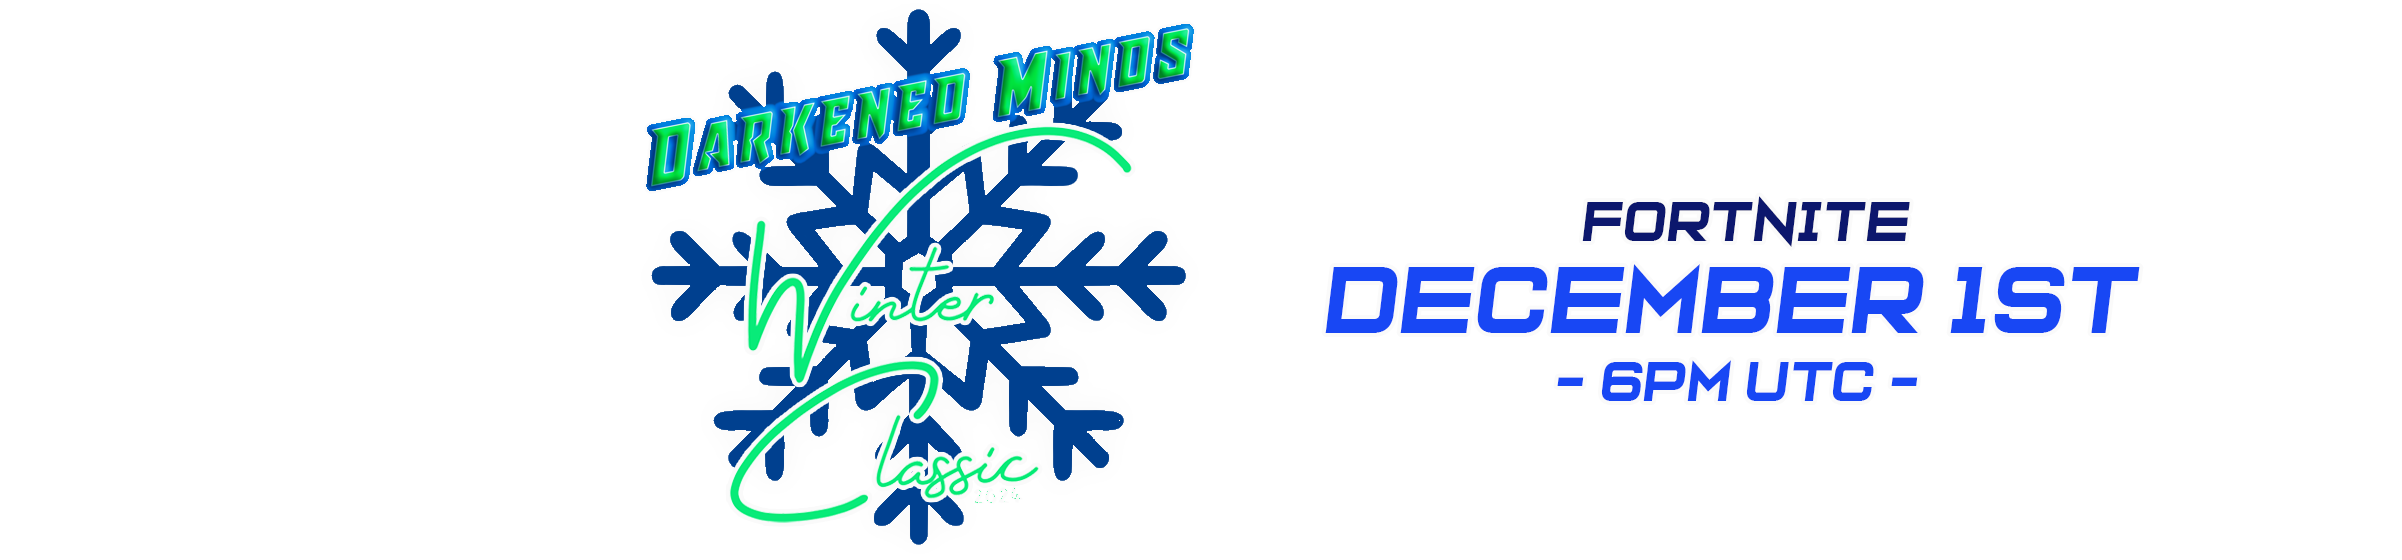
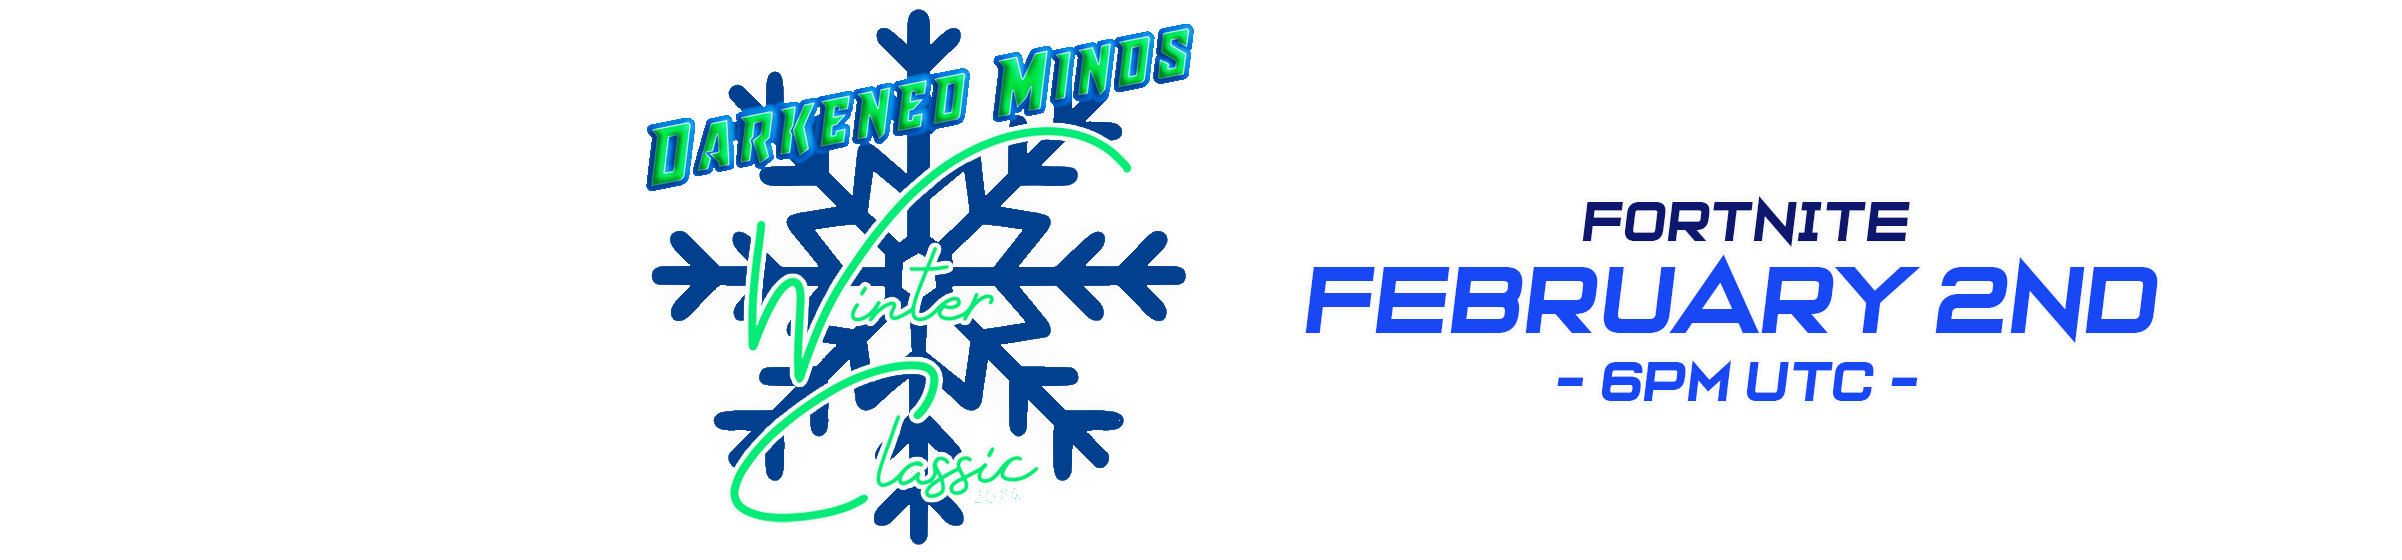
Updated tournament dates and image

Changed region(s): [[0.5308, 0.4554, 0.9055, 0.6071]]

diff --git a/pages/Tournament.php b/pages/Tournament.php
@@ -24,8 +24,8 @@
             <h3><a href="WinterFortniteTournament.php">Winter Classic Fortnite Tournament</a></h3>
             <p>
                 Ready to prove your skills? Join our current Fortnite tournament and battle for glory.<br>
-                <strong>Date:</strong> December 1st 2024<br>
-                <strong>Registration:</strong> Ends November 30<br>
+                <strong>Date:</strong> February 2nd 2025<br>
+                <strong>Registration:</strong> Ends February 1st<br>
                 <strong>Entry Fee:</strong> $5
             </p>
             <a href="WinterFortniteTournament.php" class="button">View Details</a>
